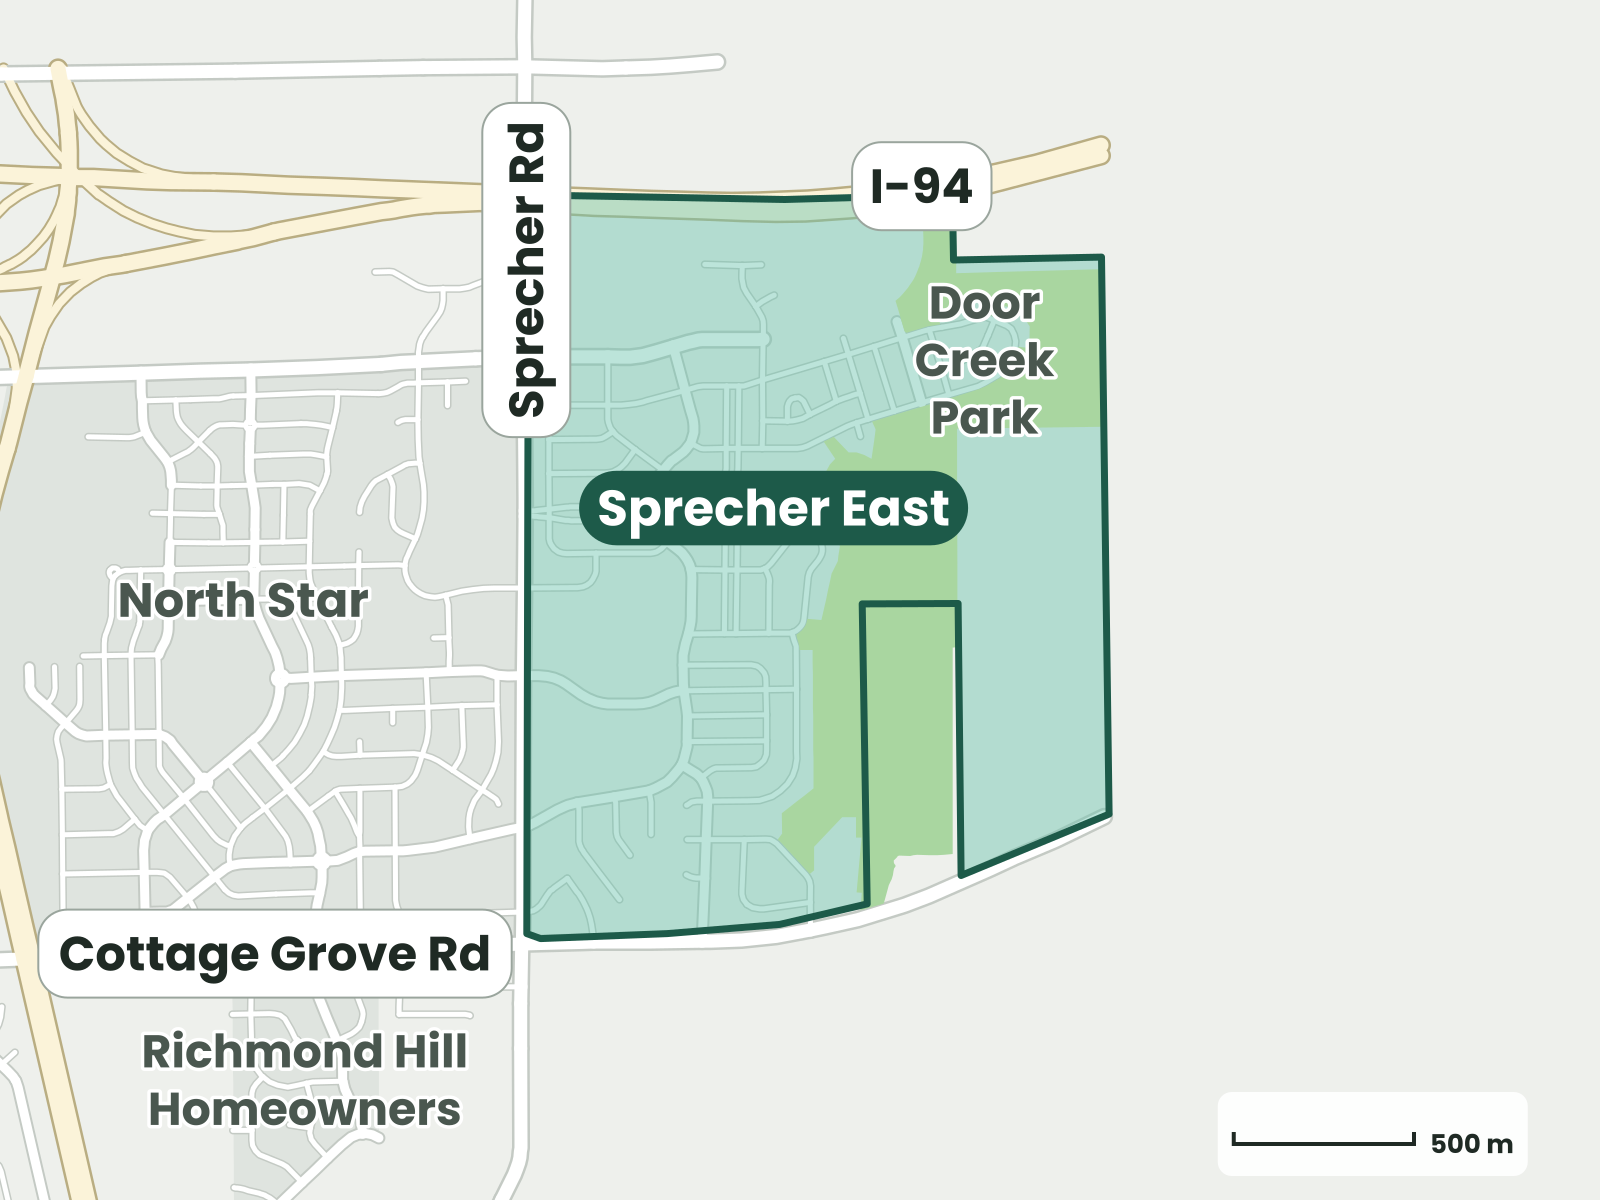
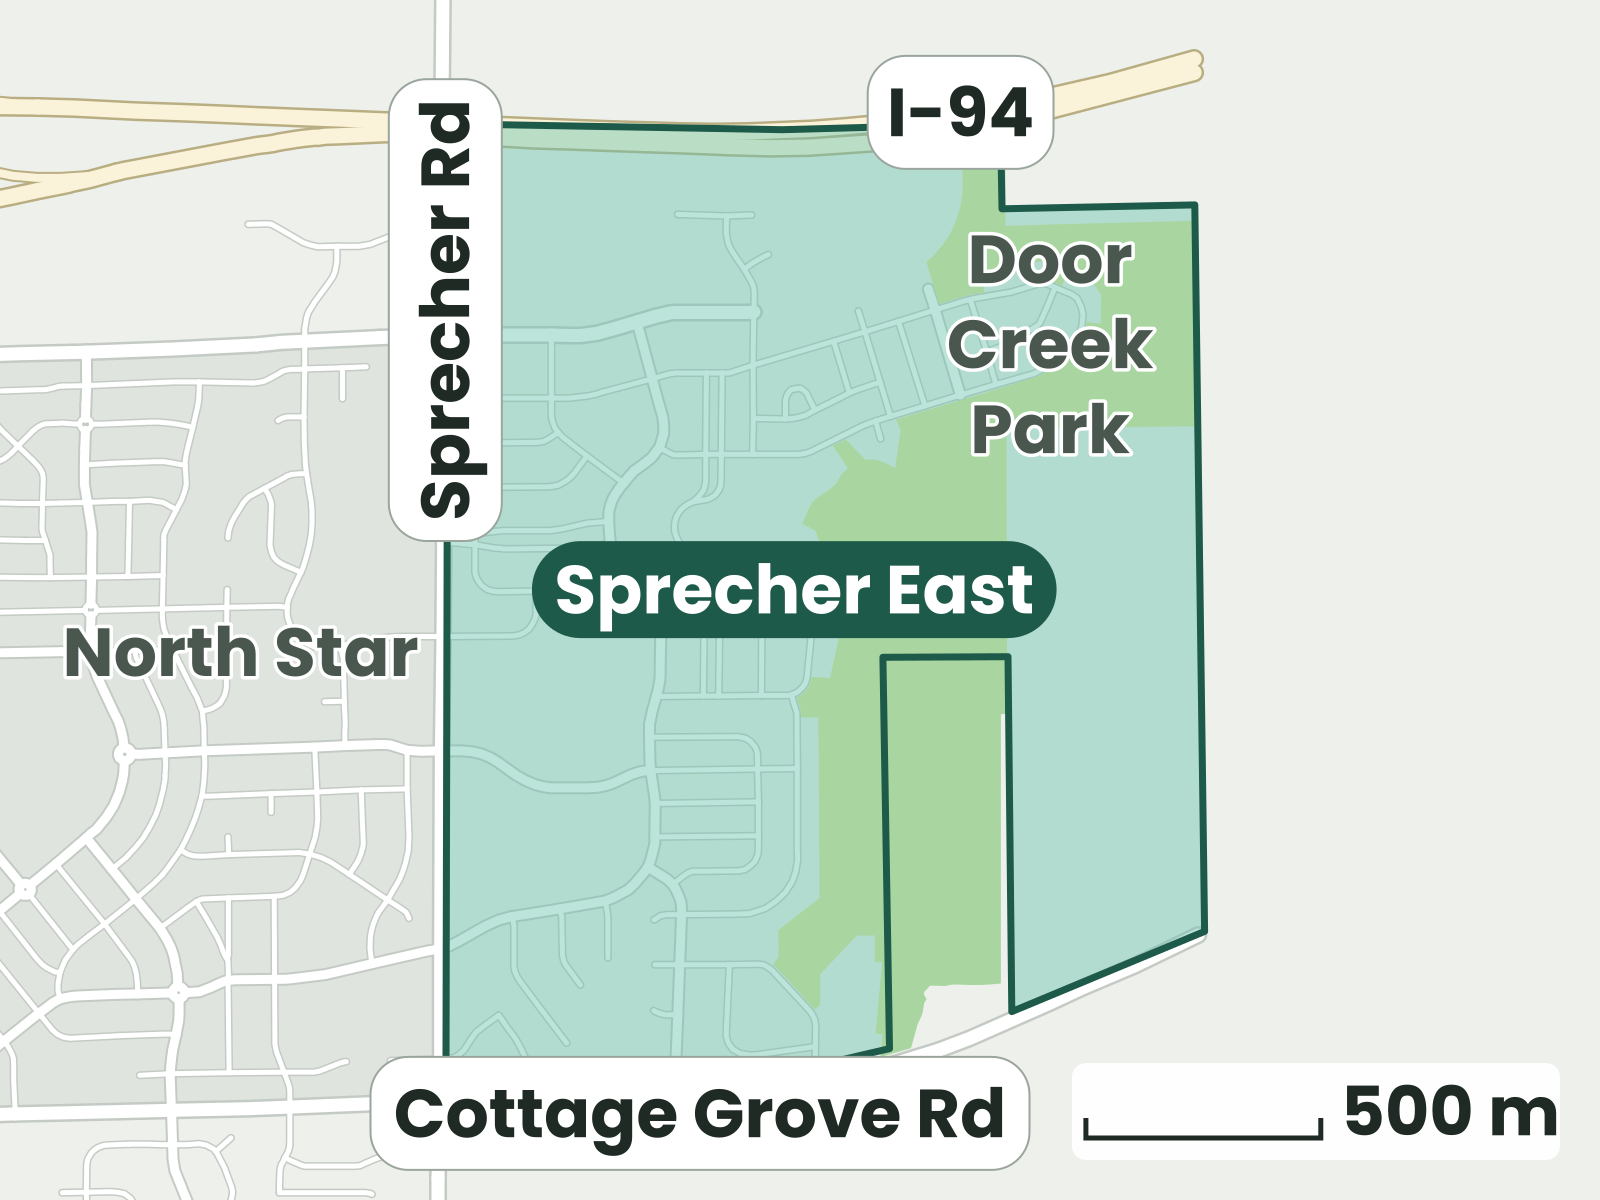
About page map: 12 px labels, closer crop, scale counted (#1419)
Second review of #1422: 8 px labels were too small. The picture now crops closer (3.4 km wide) so
every label, the scale included, is at least 12 px at 288 px wide, and the tests check that. Only
neighbors drawn are labeled, so Richmond Hill leaves the picture and its alt text.

Claude-Session: https://claude.ai/code/session_01AaWo7NJ4dbUVP9nFNqJVMk

diff --git a/src/endpoints/seed/image-3.ts b/src/endpoints/seed/image-3.ts
@@ -1,5 +1,5 @@
 import type { Media } from '@/payload-types'
 
 export const image3: Omit<Media, 'createdAt' | 'id' | 'updatedAt'> = {
-  alt: 'Map of Sprecher East outlined in green: I-94 along the north, Sprecher Road along the west and Cottage Grove Road along the south, with Door Creek Park on the east side, North Star next door to the west and Richmond Hill Homeowners to the southwest',
+  alt: 'Map of Sprecher East outlined in green: I-94 along the north, Sprecher Road along the west and Cottage Grove Road along the south, with Door Creek Park on the east side and North Star next door to the west',
 }

diff --git a/scripts/map-preview/README.md b/scripts/map-preview/README.md
@@ -10,7 +10,7 @@ npx vitest run scripts/map-preview          # checks it
 ```
 
 The PNG is 1600 by 1200 (4:3), north up, drawn at one scale both ways so it is level and true to
-the ground (about 4.4 km by 3.3 km). A 500 m scale bar sits in the corner. Labels use Poppins, so
+the ground (about 3.4 km by 2.6 km, close in so the labels can be big). A 500 m scale bar sits in the corner. Labels use Poppins, so
 install it locally before building; CI only runs the tests, which need no fonts.
 
 ## What is drawn
@@ -19,7 +19,7 @@ install it locally before building; CI only runs the tests, which need no fonts.
   City of Madison's Sprecher East polygon (`NA_ID` 146) closely but not exactly: about 2.84 km² against
   2.89 km², a difference of about 5% (checked 2026-11-21).
 - **Roads, parks and neighbors:** City of Madison open data, public domain, checked 2026-11-21.
-  `data/madison-map.json` is a trimmed snapshot (roads without alleys, parks, the neighbors in view).
+  `data/madison-map.json` is a trimmed snapshot (roads without alleys, parks, the neighbors near the boundary).
   `data/sources.json` lists the layers and the query used to take it.
 - **Door Creek Park:** the City's park polygon covers the northern part inside the boundary and the
   strip the boundary leaves out, the white notch of the old picture. Both parts carry the park's
@@ -27,8 +27,10 @@ install it locally before building; CI only runs the tests, which need no fonts.
 
 ## Checks (`render.test.mjs`)
 
-The picture is 4:3 and north up, every shape it draws is named, every label stays on the picture, no
-two labels overlap, and each label stays readable at the width the page shows. Add a label to
+The picture is 4:3 and north up, every shape it draws is named, every label (the scale included)
+stays on the picture, no two labels overlap, and each label is at least 12 px, the site's smallest type,
+at 288 px wide, the narrowest the page shows the picture (a 320 px phone). Labels for roads that follow
+the boundary sit on the road, so they cover a stretch of the boundary line; no test covers that. Add a label to
 `buildLabels` and the tests cover it.
 
 ## Updating
